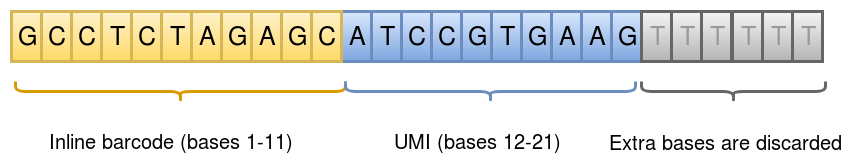
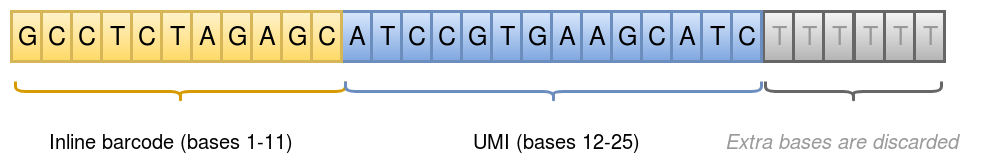
ICell8: UMI length is actually 14 bases; update code & docs appropriately.

diff --git a/auto_process_ngs/icell8_utils.py b/auto_process_ngs/icell8_utils.py
@@ -47,7 +47,7 @@ logger = logging.getLogger(__name__)
 ######################################################################
 
 INLINE_BARCODE_LENGTH = 11
-UMI_LENGTH = 10
+UMI_LENGTH = 14
 
 ######################################################################
 # Other constants

diff --git a/docs/source/icell8.rst b/docs/source/icell8.rst
@@ -12,7 +12,7 @@ R1/R2 pair, where the R1 reads hold an inline barcode and a unique
 molecular identifier (UMI) for the read pair:
 
  * **Inline barcode:** bases 1-11 in R1
- * **UMI:** bases 12-21 in R1
+ * **UMI:** bases 12-25 in R1
 
 This is illustrated in the figure below:
 
